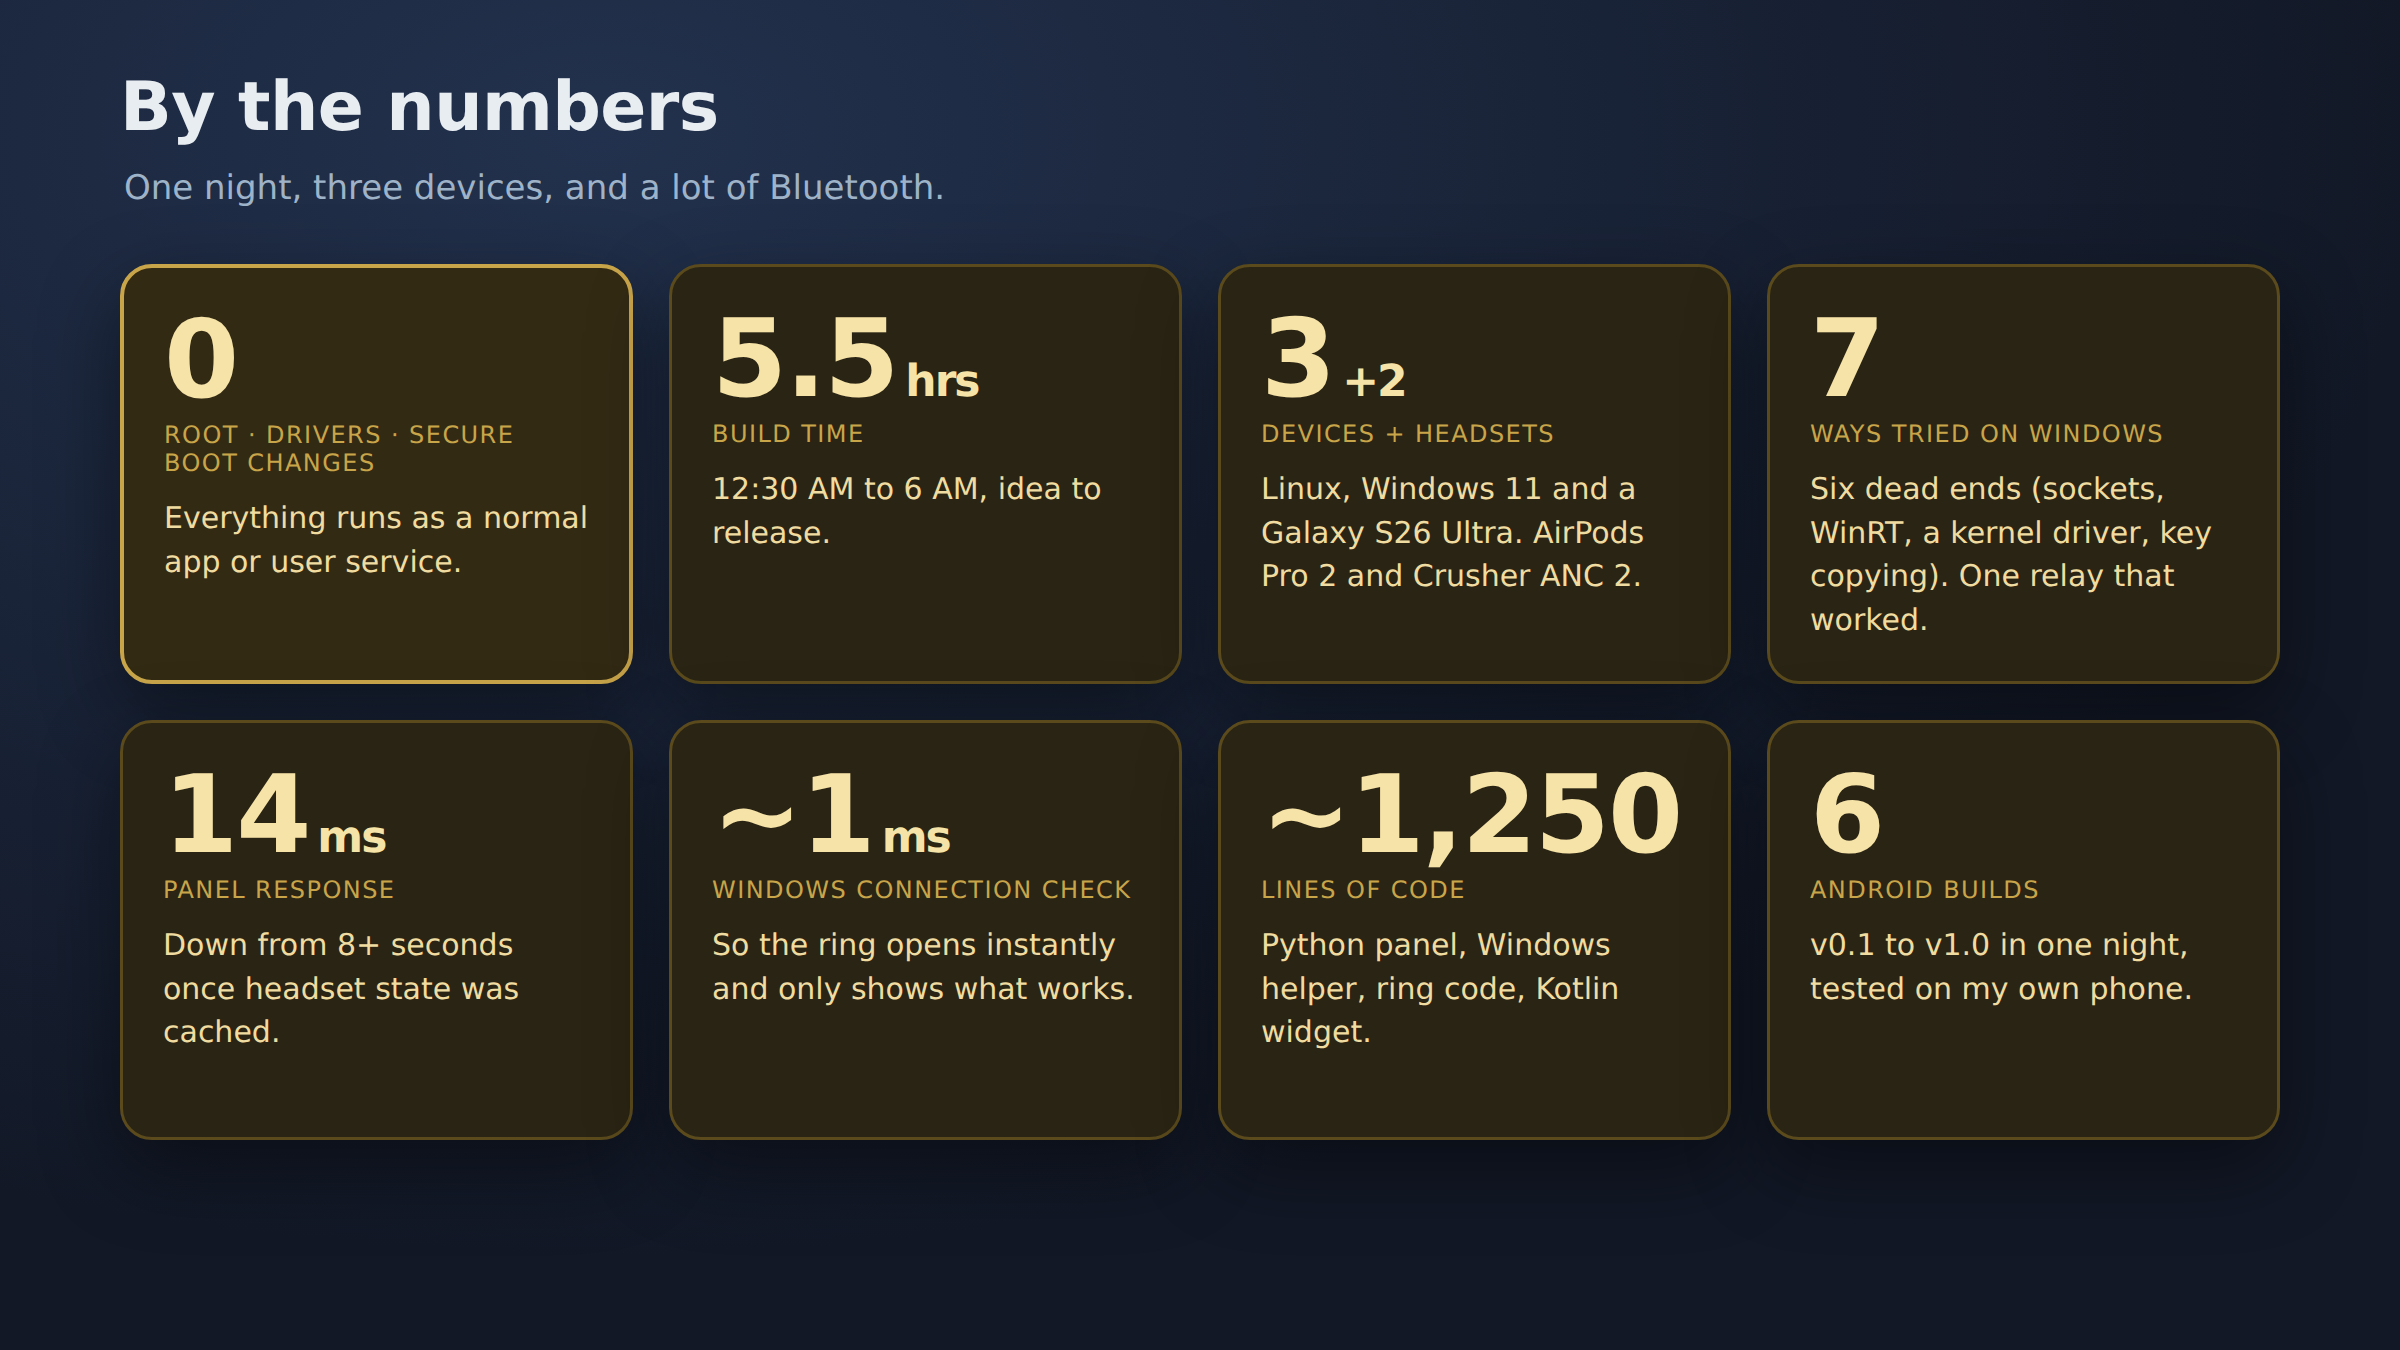
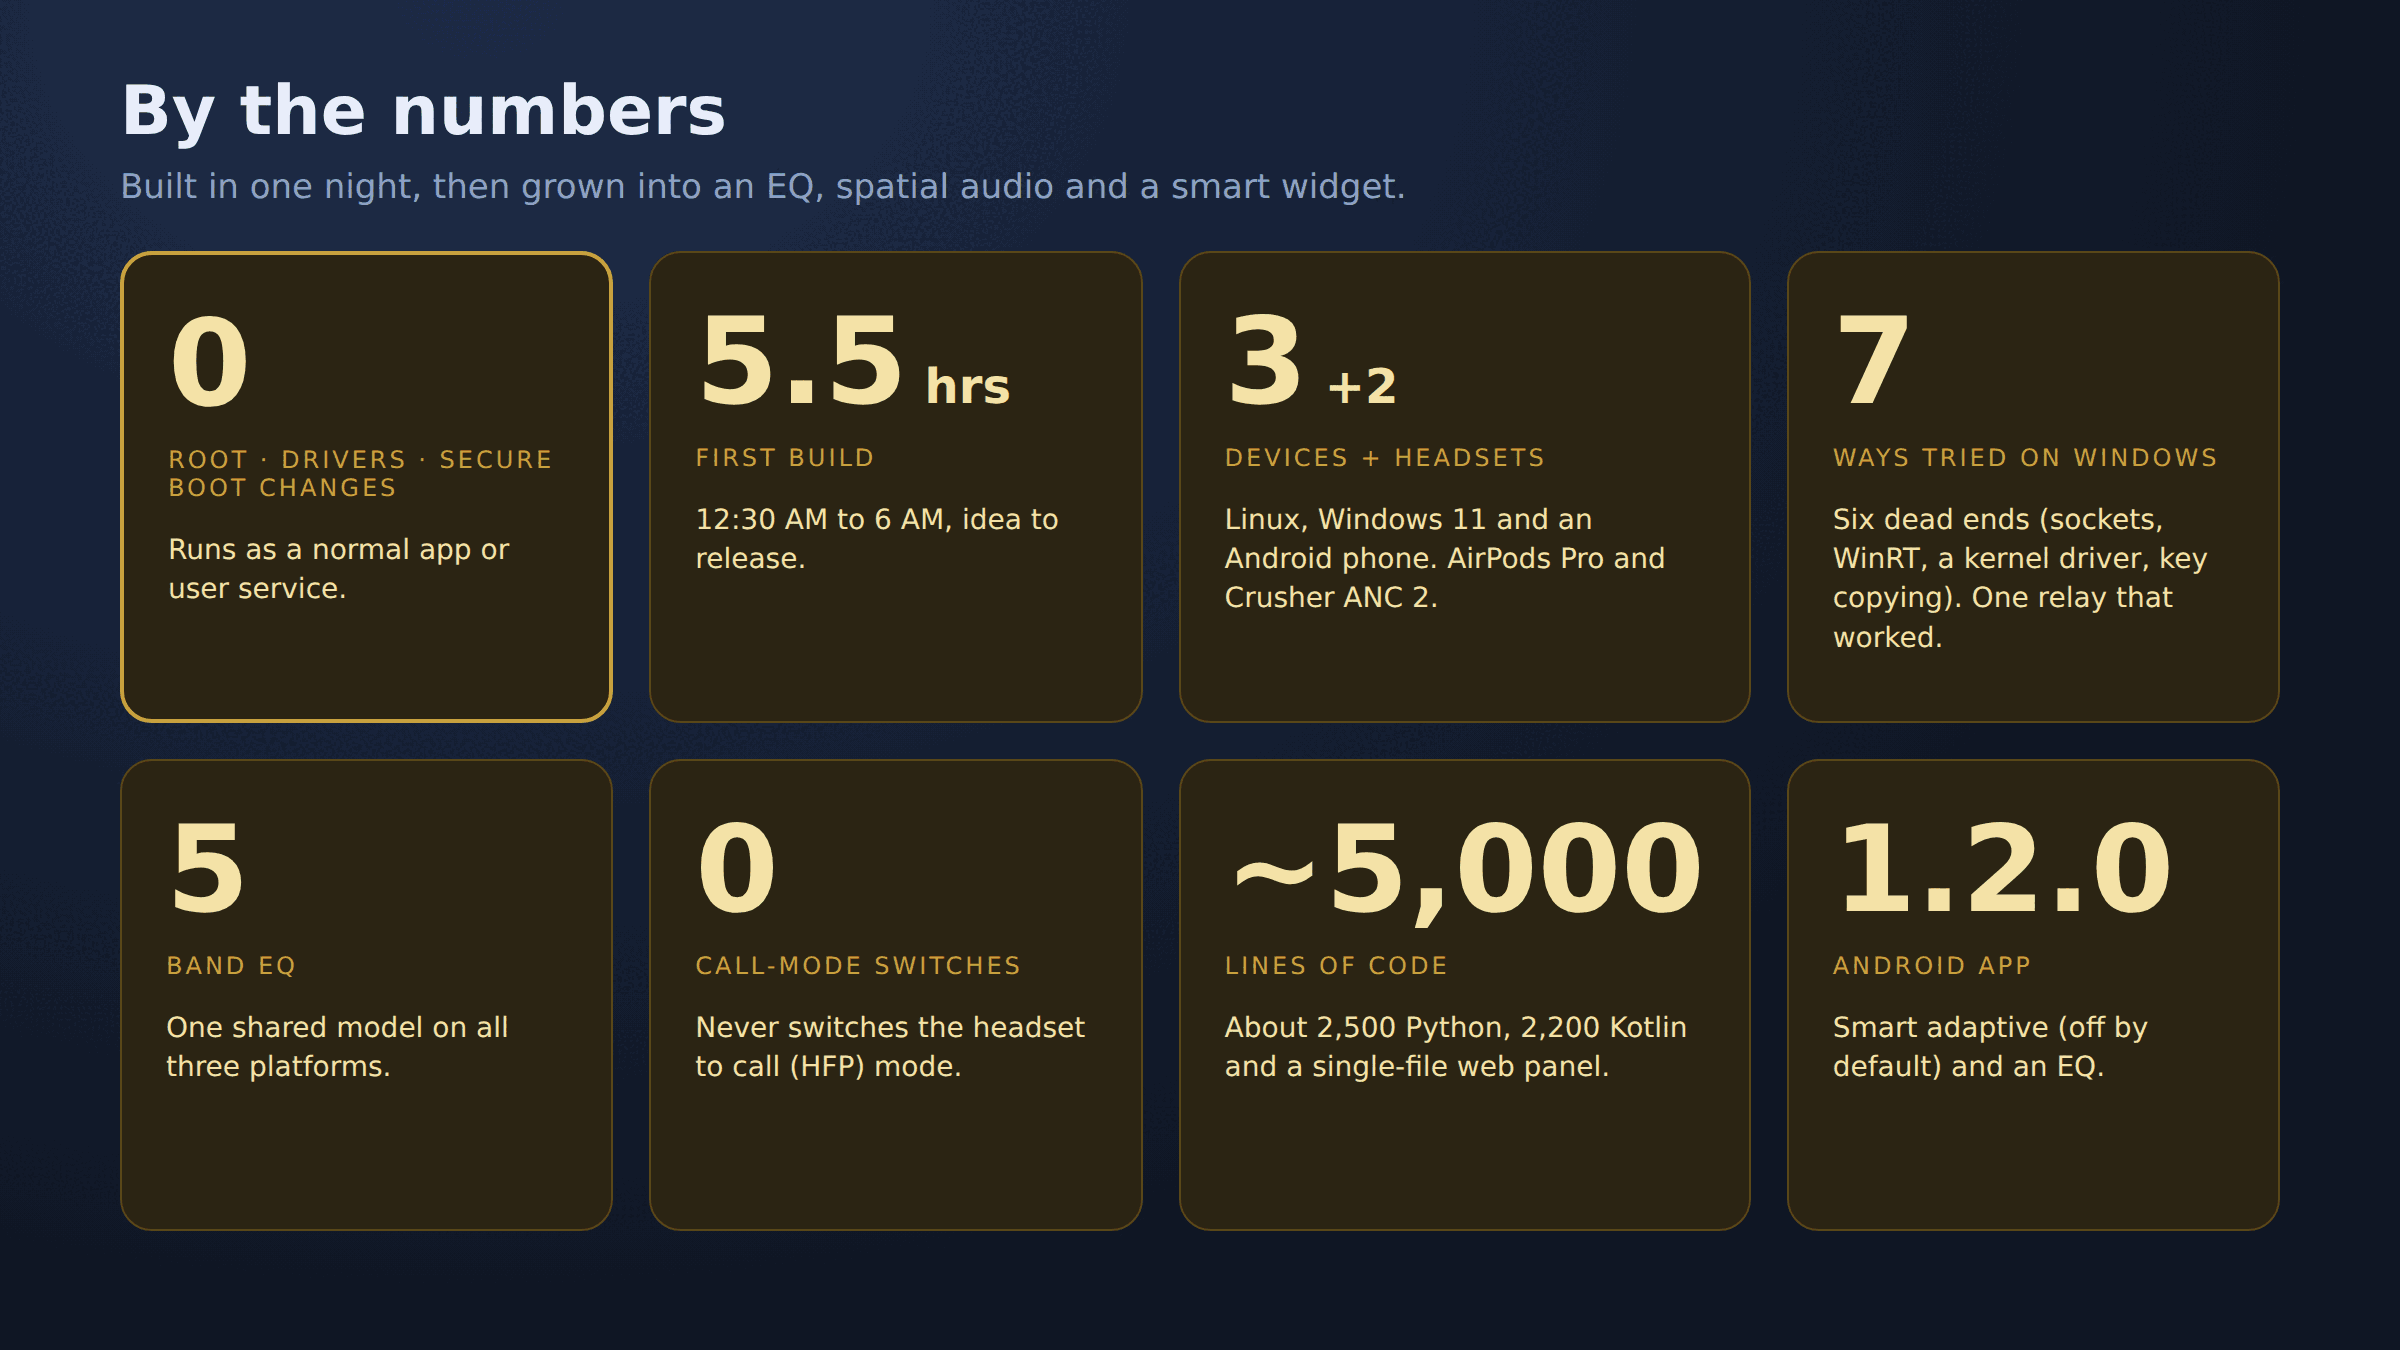
README: current panel screenshots and feature text, refreshed numbers image

Changed region(s): [[0.0312, 0.1867, 0.9688, 0.9333], [0.0312, 0.0622, 0.5938, 0.1556]]

diff --git a/README.md b/README.md
@@ -8,6 +8,10 @@ from a radial flick menu on both computers, from a web panel, and from a home-sc
 It also has a shared 5-band EQ with a draggable curve, the AirPods' adaptive noise level and settings,
 and the Crusher's extra settings (see [Customizing the sound](#customizing-the-sound)).
 
+Two things are optional and off by default: **spatial audio** (Linux laptop only, with experimental head
+tracking) and the **laptop mic tools** (a sound viewer and notch filters). Nothing here ever switches the
+headset to call (HFP) mode, so audio quality stays the same while you use the controls.
+
 It doesn't need an iPhone, a kernel driver, a Secure Boot change, a USB dongle or a rooted phone.
 
 <p align="center">
@@ -30,12 +34,33 @@ Crusher gets Bass, and with nothing connected only volume and track controls are
 |---|---|---|
 | <img src="docs/images/ring-audio-both.png" width="260"> | <img src="docs/images/ring-airpods-only.png" width="260"> | <img src="docs/images/ring-crusher-only.png" width="260"> |
 
+### The web panel
+
+The panel is one page served by the laptop (`laptop/panel.html`). It is shown here on a phone-width screen
+with example data, in two parts: the headphone controls first, then EQ, spatial audio and the laptop mic tools.
+
 <p align="center">
-  <img src="docs/images/panel.png" width="360" alt="The web panel">
+  <img src="docs/images/panel-phone-1.png" width="360" alt="Web panel, top half: Crusher ANC 2 listening mode, sensory bass and extras; AirPods Pro noise control, Block noise slider (Block more to Hear more, with Block max / Balanced / Hear more / Full ANC), AirPods settings and press-and-hold modes">
   &nbsp;&nbsp;
+  <img src="docs/images/panel-phone-2.png" width="360" alt="Web panel, bottom half: the equalizer with its draggable 5-band curve and presets, optional spatial audio (Off / Fixed / Head tracked), and the optional laptop mic tools">
+</p>
+
+- **Block noise (AirPods).** The slider runs from *Block more* to *Hear more* and sets the Adaptive level.
+  The buttons are shortcuts: *Block max*, *Balanced*, *Hear more* (all Adaptive at different levels) and
+  *Full ANC*. The AirPods' own microphones do the listening, so it works with nothing playing through the laptop.
+- **Equalizer.** One volume, with automatic headroom so boosts don't clip. On the laptop it is a PipeWire
+  smart filter in front of the current output.
+- **Spatial audio** is Linux only and optional. Head tracking is experimental.
+- **Laptop mic tools** is optional. It uses the laptop's microphone, not the AirPods, to find a hum or whine and
+  notch it out of sound that goes through the laptop.
+- **Crusher extras** show hear-through on calls and when paused, plus the firmware's feature flags (read-only).
+
+### The Android widget
+
+<p align="center">
   <img src="docs/images/widget-mockup.png" width="360" alt="The Android widget (mockup of the real layout)">
 </p>
-<p align="center"><sub>Web panel (left) and the home-screen widget (right; a mockup of its real layout)</sub></p>
+<p align="center"><sub>The home-screen widget (a mockup of its real layout)</sub></p>
 
 ## The interesting parts
 
@@ -81,22 +106,32 @@ this broadcast, so battery shows no matter which device is playing.
 | Control | AirPods Pro 2 | Crusher ANC 2 | Where |
 |---|---|---|---|
 | **EQ** (5 bands, presets Flat / Bass boost / Vocal / Treble / Custom, draggable curve) | Applied to the audio before it's sent, since AirPods have no EQ over AAP | Same, on top of its sensory bass | Panel (laptop output), Android app and widget (phone output), Windows (Equalizer APO), ring "EQ" wedge |
-| Adaptive noise level, "Less noise ↔ More noise" | AAP `0x2E` | | Panel, Android app |
+| Adaptive noise level, shown as the Block noise slider (Block more ↔ Hear more) and the Block max / Balanced / Hear more / Full ANC shortcuts | AAP `0x2E` | | Panel, Android app |
 | Conversational Awareness, Personalized Volume, ear detection, one-bud ANC, "Off" in press and hold | AAP `0x28`, `0x26`, `0x0A`, `0x1B`, `0x34` | | Panel, Android app |
 | Press-and-hold cycle (which modes) | AAP `0x1A` | | Panel, Android app |
 | Sensory bass level and on/off | | `AT.CRUSHER` | Panel, Android app, `crusher_win.py`, ring |
 | Transparency level, hear-through on calls / when paused | | `AT.UIAUDIO=transparency,,n`, `atoncall`, `atonpause` (shown only if the firmware answers) | Panel, Android app, `crusher_win.py` |
+| Firmware feature flags (Tile Find Me, Spotify One Touch, Remote Control, Latency Mode) | | `AT.FEATURE=info`, read-only | Panel |
 
 Every setting is read back from the device, so the controls show what the headphones report.
 
 **The EQ is source-side.** It runs on whichever device is playing:
-- **Laptop:** a PipeWire filter-chain sink (`laptop/hp_eq.py`).
-- **Phone:** Android `audiofx`, with no root. It tries the global output, which is deprecated and only
+- **Laptop:** a PipeWire smart filter in front of the current output (`laptop/hp_eq.py`), with one volume
+  and automatic headroom so boosts don't clip.
+- **Phone:** Android `audiofx`, with no root. What it can do depends on the phone's audio effects. It tries the global output, which is deprecated and only
   works if the phone honours it, and also attaches to music apps that offer their audio session to
   external EQs. The app says which of these it got. Apps that do neither (most video apps and browsers)
   can't be equalized without root.
-- **Windows:** [Equalizer APO](https://sourceforge.net/projects/equalizerapo/) config, written by
+- **Windows:** needs [Equalizer APO](https://sourceforge.net/projects/equalizerapo/) config, written by
   `windows/eq_apo.py`. Equalizer APO itself has to be installed.
+
+**Optional extras (laptop only).** Spatial audio plays stereo as two virtual speakers in front of you
+(HRTF, `laptop/hp_spatial.py`); head tracking uses the AirPods' motion sensors and is experimental. The laptop
+mic tools (`laptop/hp_sound.py`) show what the laptop microphone hears and can notch a hum or whine out of the
+mic or out of the laptop's output. Both are off until you turn them on.
+
+**Android 1.2.0** adds *Smart adaptive* (off by default): it uses the phone's activity recognition to move
+the AirPods between Adaptive levels as you walk, drive or sit still.
 
 All three use `shared/eq_presets.json`, so a preset sounds the same everywhere.
 
@@ -198,8 +233,8 @@ The APK has nothing about any particular device built in.
 ## Build notes
 
 Built in one night (about 5.5 hours) across three devices and two headsets. Seven routes were tried
-for AirPods on Windows before the two-device relay worked. The whole thing is about 1,250 lines of
-code, and none of it needs root, a driver or a Secure Boot change.
+for AirPods on Windows before the two-device relay worked. The whole thing is now about 5,000 lines of
+code (roughly 2,500 Python, 2,200 Kotlin and a 290-line web panel page), and none of it needs root, a driver or a Secure Boot change.
 
 <p align="center"><img src="docs/images/by-the-numbers.png" width="760" alt="By the numbers"></p>
 
